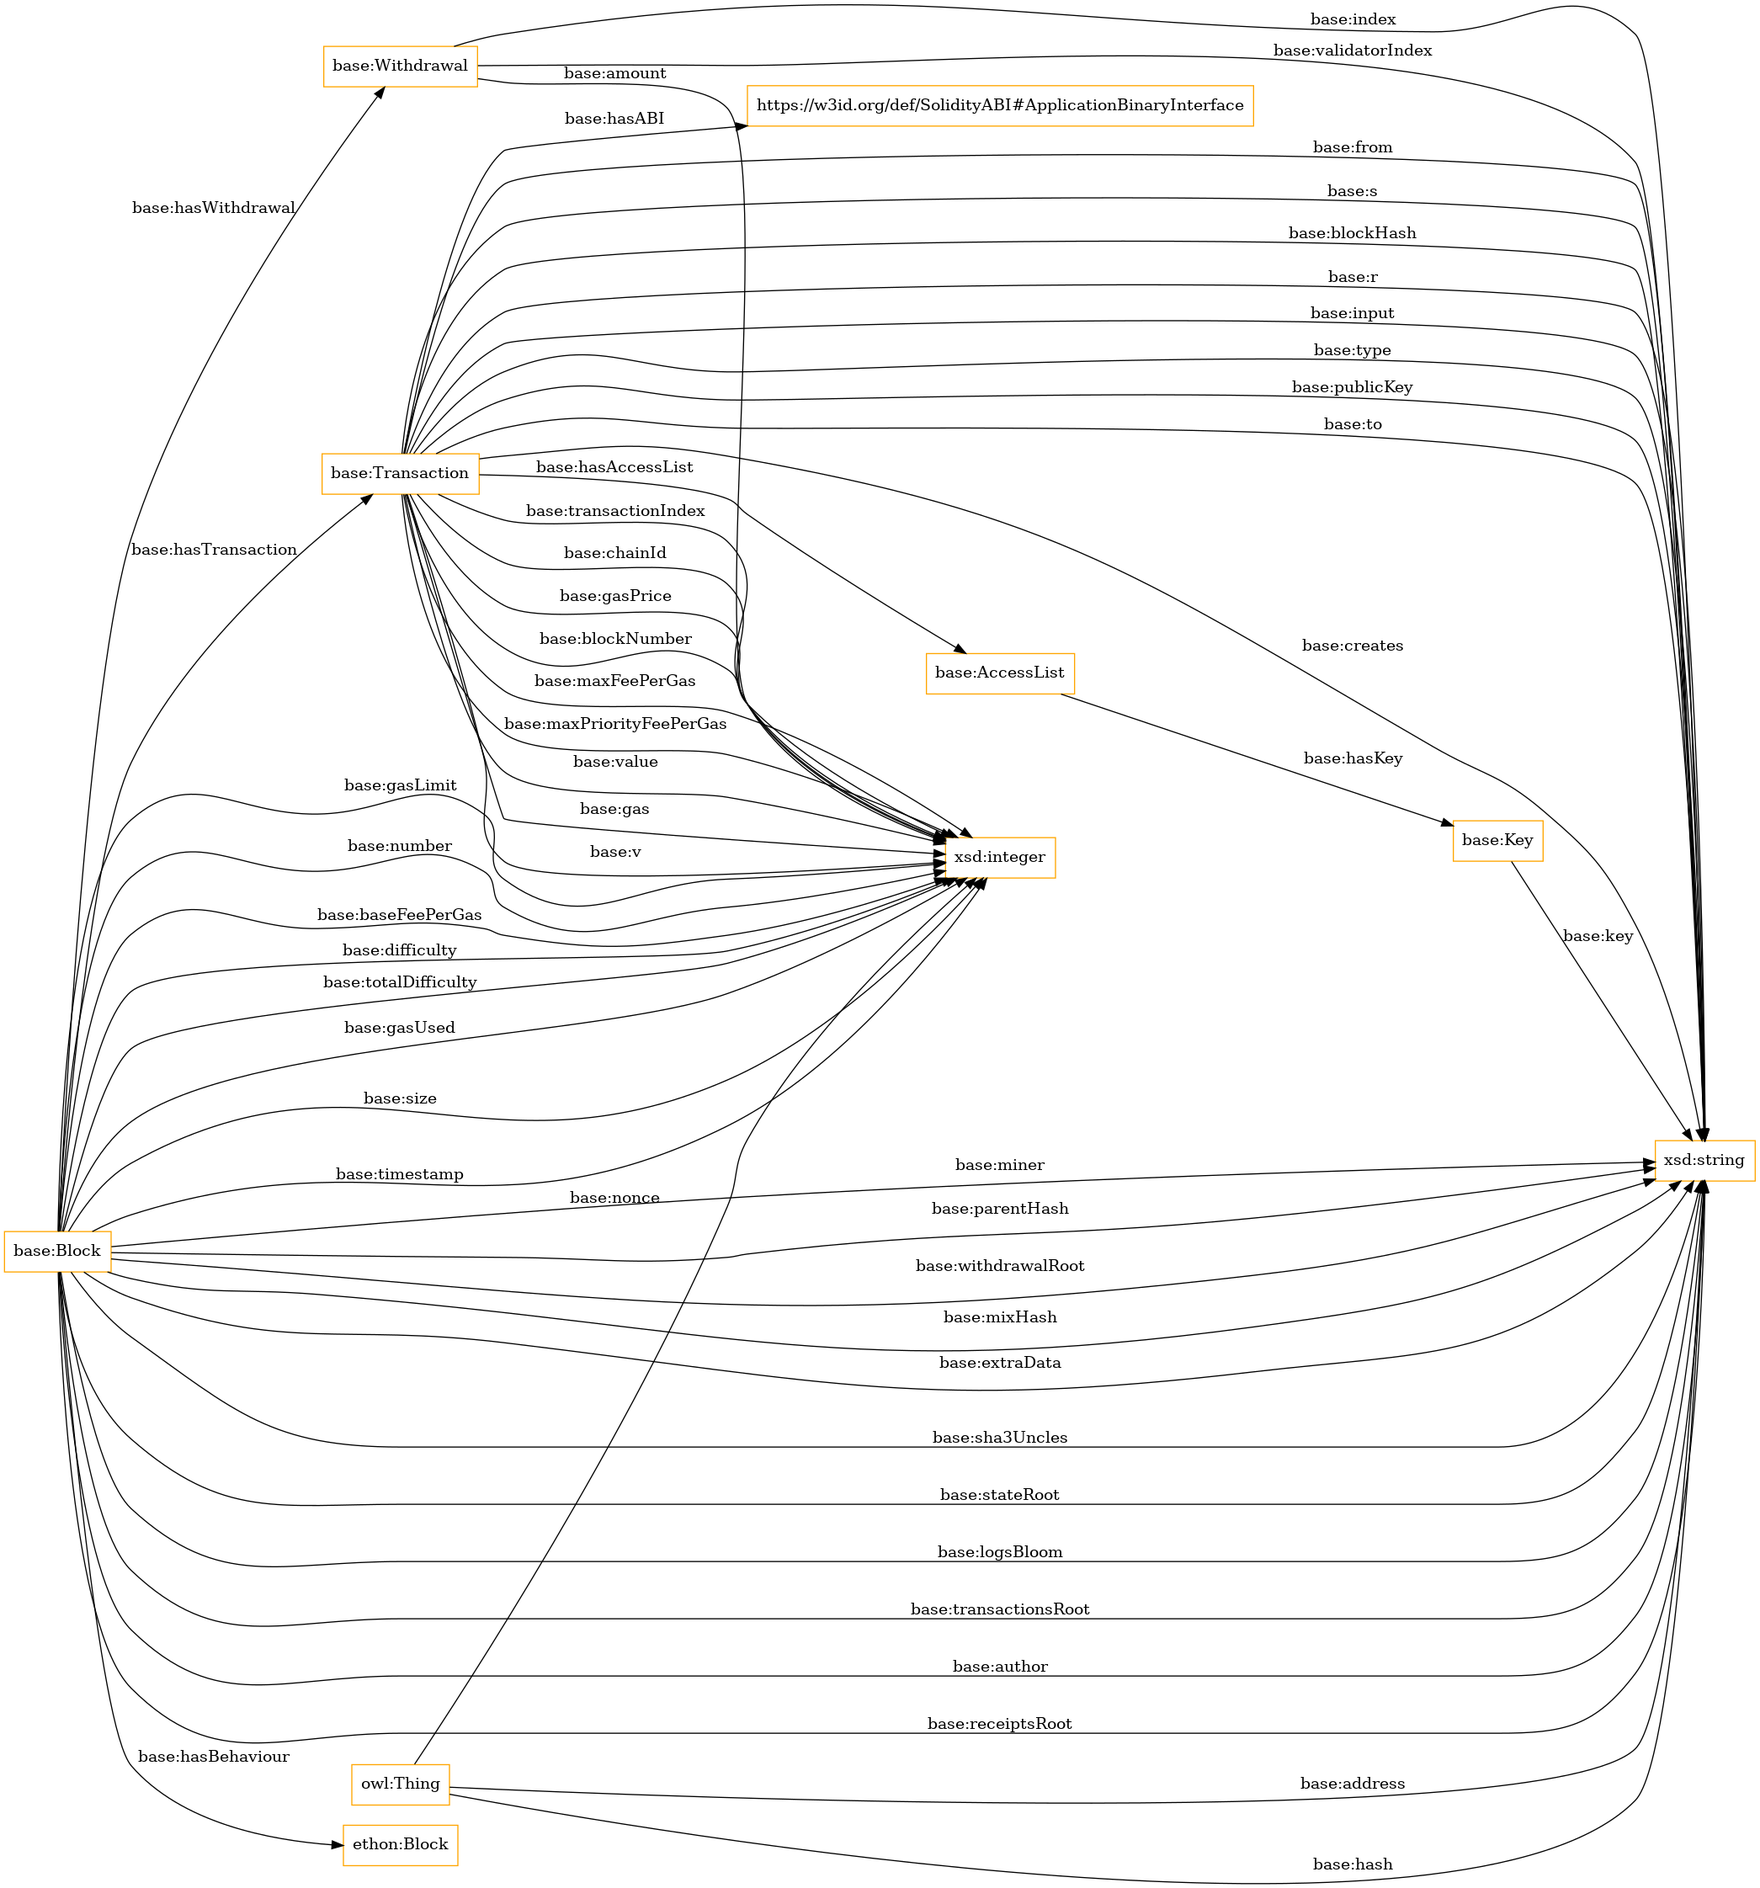
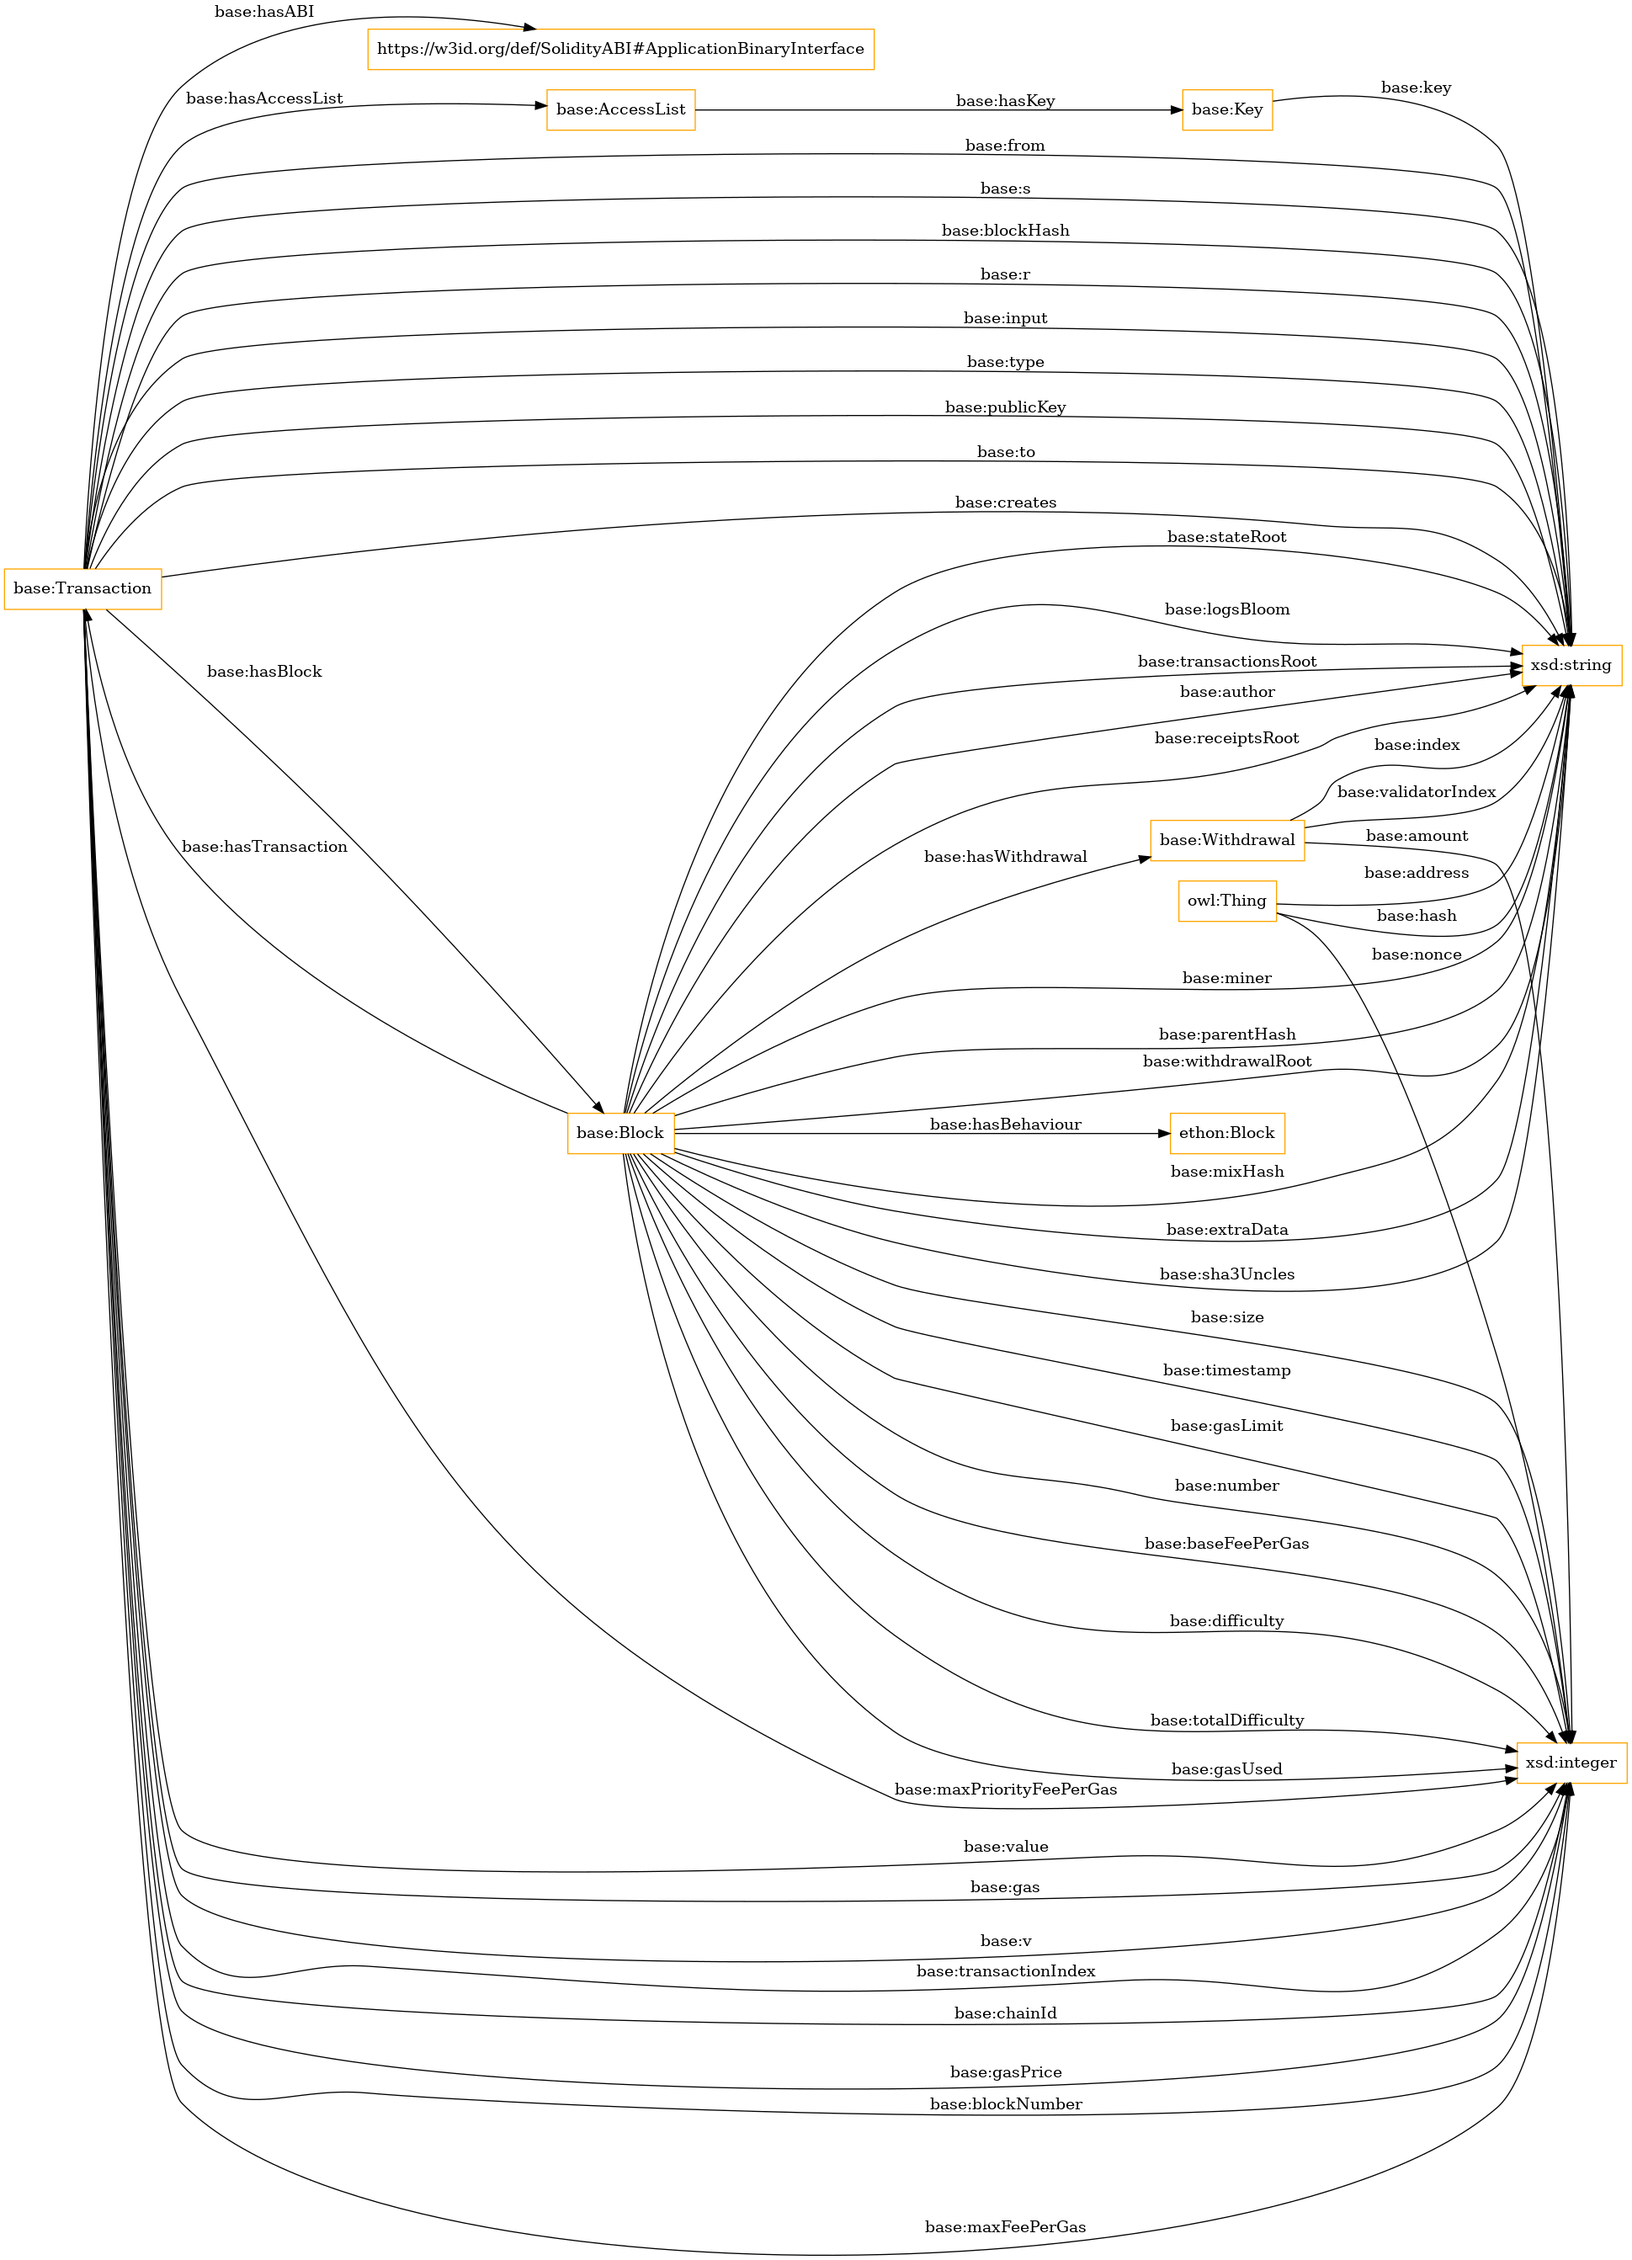
automated change

diff --git a/OnToology/EthereumOntology.ttl/documentation/sections/crossref-en.html b/OnToology/EthereumOntology.ttl/documentation/sections/crossref-en.html
@@ -13,10 +13,10 @@ This section provides details for each class and property defined by Ethereum On
             title="https://w3id.org/def/SolidityABI#ApplicationBinaryInterface">Application Binary Interface</a>
       </li>
       <li>
-         <a href="#http://ethon.consensys.net/Block" title="http://ethon.consensys.net/Block">Block</a>
+         <a href="#https://w3id.org/def/Ethereum#Block" title="https://w3id.org/def/Ethereum#Block">Block</a>
       </li>
       <li>
-         <a href="#https://w3id.org/def/Ethereum#Block" title="https://w3id.org/def/Ethereum#Block">Block</a>
+         <a href="#http://ethon.consensys.net/Block" title="http://ethon.consensys.net/Block">EthOn Block</a>
       </li>
       <li>
          <a href="#https://w3id.org/def/Ethereum#Key" title="https://w3id.org/def/Ethereum#Key">Key</a>
@@ -69,24 +69,6 @@ This section provides details for each class and property defined by Ethereum On
          </dd>
       </dl>
    </div>
-   <div class="entity" id="http://ethon.consensys.net/Block">
-      <h3>Block<sup class="type-c" title="class">c</sup>
-         <span class="backlink"> back to <a href="#toc">ToC</a> or <a href="#classes">Class ToC</a>
-         </span>
-      </h3>
-      <p>
-         <strong>IRI:</strong> http://ethon.consensys.net/Block</p>
-      <div class="info">
-         <span class="markdown">The block class that is part of the EthOn ontology</span>
-      </div>
-      <dl class="description">
-         <dt>is in range of</dt>
-         <dd>
-            <a href="#https://w3id.org/def/Ethereum#hasBehaviour" title="https://w3id.org/def/Ethereum#hasBehaviour">has behaviour</a>
-            <sup class="type-op" title="object property">op</sup>
-         </dd>
-      </dl>
-   </div>
    <div class="entity" id="https://w3id.org/def/Ethereum#Block">
       <h3>Block<sup class="type-c" title="class">c</sup>
          <span class="backlink"> back to <a href="#toc">ToC</a> or <a href="#classes">Class ToC</a>
@@ -123,6 +105,29 @@ This section provides details for each class and property defined by Ethereum On
             <sup class="type-dp" title="data property">dp</sup>, <a href="#https://w3id.org/def/Ethereum#transactionsRoot" title="https://w3id.org/def/Ethereum#transactionsRoot">transactions root</a>
             <sup class="type-dp" title="data property">dp</sup>, <a href="#https://w3id.org/def/Ethereum#withdrawalRoot" title="https://w3id.org/def/Ethereum#withdrawalRoot">withdrawal root</a>
             <sup class="type-dp" title="data property">dp</sup>
+         </dd>
+         <dt>is in range of</dt>
+         <dd>
+            <a href="#https://w3id.org/def/Ethereum#hasBlock" title="https://w3id.org/def/Ethereum#hasBlock">has block</a>
+            <sup class="type-op" title="object property">op</sup>
+         </dd>
+      </dl>
+   </div>
+   <div class="entity" id="http://ethon.consensys.net/Block">
+      <h3>EthOn Block<sup class="type-c" title="class">c</sup>
+         <span class="backlink"> back to <a href="#toc">ToC</a> or <a href="#classes">Class ToC</a>
+         </span>
+      </h3>
+      <p>
+         <strong>IRI:</strong> http://ethon.consensys.net/Block</p>
+      <div class="info">
+         <span class="markdown">The block class that is part of the EthOn ontology</span>
+      </div>
+      <dl class="description">
+         <dt>is in range of</dt>
+         <dd>
+            <a href="#https://w3id.org/def/Ethereum#hasBehaviour" title="https://w3id.org/def/Ethereum#hasBehaviour">has behaviour</a>
+            <sup class="type-op" title="object property">op</sup>
          </dd>
       </dl>
    </div>
@@ -171,6 +176,7 @@ This section provides details for each class and property defined by Ethereum On
             <sup class="type-dp" title="data property">dp</sup>, <a href="#https://w3id.org/def/Ethereum#gasPrice" title="https://w3id.org/def/Ethereum#gasPrice">gas price</a>
             <sup class="type-dp" title="data property">dp</sup>, <a href="#https://w3id.org/def/Ethereum#hasABI" title="https://w3id.org/def/Ethereum#hasABI">has abi</a>
             <sup class="type-op" title="object property">op</sup>, <a href="#https://w3id.org/def/Ethereum#hasAccessList" title="https://w3id.org/def/Ethereum#hasAccessList">has access list</a>
+            <sup class="type-op" title="object property">op</sup>, <a href="#https://w3id.org/def/Ethereum#hasBlock" title="https://w3id.org/def/Ethereum#hasBlock">has block</a>
             <sup class="type-op" title="object property">op</sup>, <a href="#https://w3id.org/def/Ethereum#input" title="https://w3id.org/def/Ethereum#input">input</a>
             <sup class="type-dp" title="data property">dp</sup>, <a href="#https://w3id.org/def/Ethereum#maxFeePerGas" title="https://w3id.org/def/Ethereum#maxFeePerGas">max fee per gas</a>
             <sup class="type-dp" title="data property">dp</sup>, <a href="#https://w3id.org/def/Ethereum#maxPriorityFeePerGas"
@@ -230,6 +236,9 @@ This section provides details for each class and property defined by Ethereum On
       </li>
       <li>
          <a href="#https://w3id.org/def/Ethereum#hasBehaviour" title="https://w3id.org/def/Ethereum#hasBehaviour">has behaviour</a>
+      </li>
+      <li>
+         <a href="#https://w3id.org/def/Ethereum#hasBlock" title="https://w3id.org/def/Ethereum#hasBlock">has block</a>
       </li>
       <li>
          <a href="#https://w3id.org/def/Ethereum#hasKey" title="https://w3id.org/def/Ethereum#hasKey">has key</a>
@@ -311,7 +320,32 @@ This section provides details for each class and property defined by Ethereum On
             </dd>
             <dt>has range</dt>
             <dd>
-               <a href="#http://ethon.consensys.net/Block" title="http://ethon.consensys.net/Block">Block</a>
+               <a href="#http://ethon.consensys.net/Block" title="http://ethon.consensys.net/Block">EthOn Block</a>
+               <sup class="type-c" title="class">c</sup>
+            </dd>
+         </dl>
+      </div>
+   </div>
+   <div class="entity" id="https://w3id.org/def/Ethereum#hasBlock">
+      <h3>has block<sup class="type-op" title="object property">op</sup>
+         <span class="backlink"> back to <a href="#toc">ToC</a> or <a href="#objectproperties">Object Property ToC</a>
+         </span>
+      </h3>
+      <p>
+         <strong>IRI:</strong> https://w3id.org/def/Ethereum#hasBlock</p>
+      <div class="info">
+         <span class="markdown">The block related to a transaction</span>
+      </div>
+      <div class="description">
+         <dl>
+            <dt>has domain</dt>
+            <dd>
+               <a href="#https://w3id.org/def/Ethereum#Transaction" title="https://w3id.org/def/Ethereum#Transaction">Transaction</a>
+               <sup class="type-c" title="class">c</sup>
+            </dd>
+            <dt>has range</dt>
+            <dd>
+               <a href="#https://w3id.org/def/Ethereum#Block" title="https://w3id.org/def/Ethereum#Block">Block</a>
                <sup class="type-c" title="class">c</sup>
             </dd>
          </dl>

diff --git a/OnToology/EthereumOntology.ttl/documentation/sections/overview-en.html b/OnToology/EthereumOntology.ttl/documentation/sections/overview-en.html
@@ -13,10 +13,10 @@ This ontology has the following classes and properties.</span>
          title="https://w3id.org/def/SolidityABI#ApplicationBinaryInterface">Application Binary Interface</a>
    </li>
    <li>
-      <a href="#http://ethon.consensys.net/Block" title="http://ethon.consensys.net/Block">Block</a>
+      <a href="#https://w3id.org/def/Ethereum#Block" title="https://w3id.org/def/Ethereum#Block">Block</a>
    </li>
    <li>
-      <a href="#https://w3id.org/def/Ethereum#Block" title="https://w3id.org/def/Ethereum#Block">Block</a>
+      <a href="#http://ethon.consensys.net/Block" title="http://ethon.consensys.net/Block">EthOn Block</a>
    </li>
    <li>
       <a href="#https://w3id.org/def/Ethereum#Key" title="https://w3id.org/def/Ethereum#Key">Key</a>
@@ -38,6 +38,9 @@ This ontology has the following classes and properties.</span>
    </li>
    <li>
       <a href="#https://w3id.org/def/Ethereum#hasBehaviour" title="https://w3id.org/def/Ethereum#hasBehaviour">has behaviour</a>
+   </li>
+   <li>
+      <a href="#https://w3id.org/def/Ethereum#hasBlock" title="https://w3id.org/def/Ethereum#hasBlock">has block</a>
    </li>
    <li>
       <a href="#https://w3id.org/def/Ethereum#hasKey" title="https://w3id.org/def/Ethereum#hasKey">has key</a>
